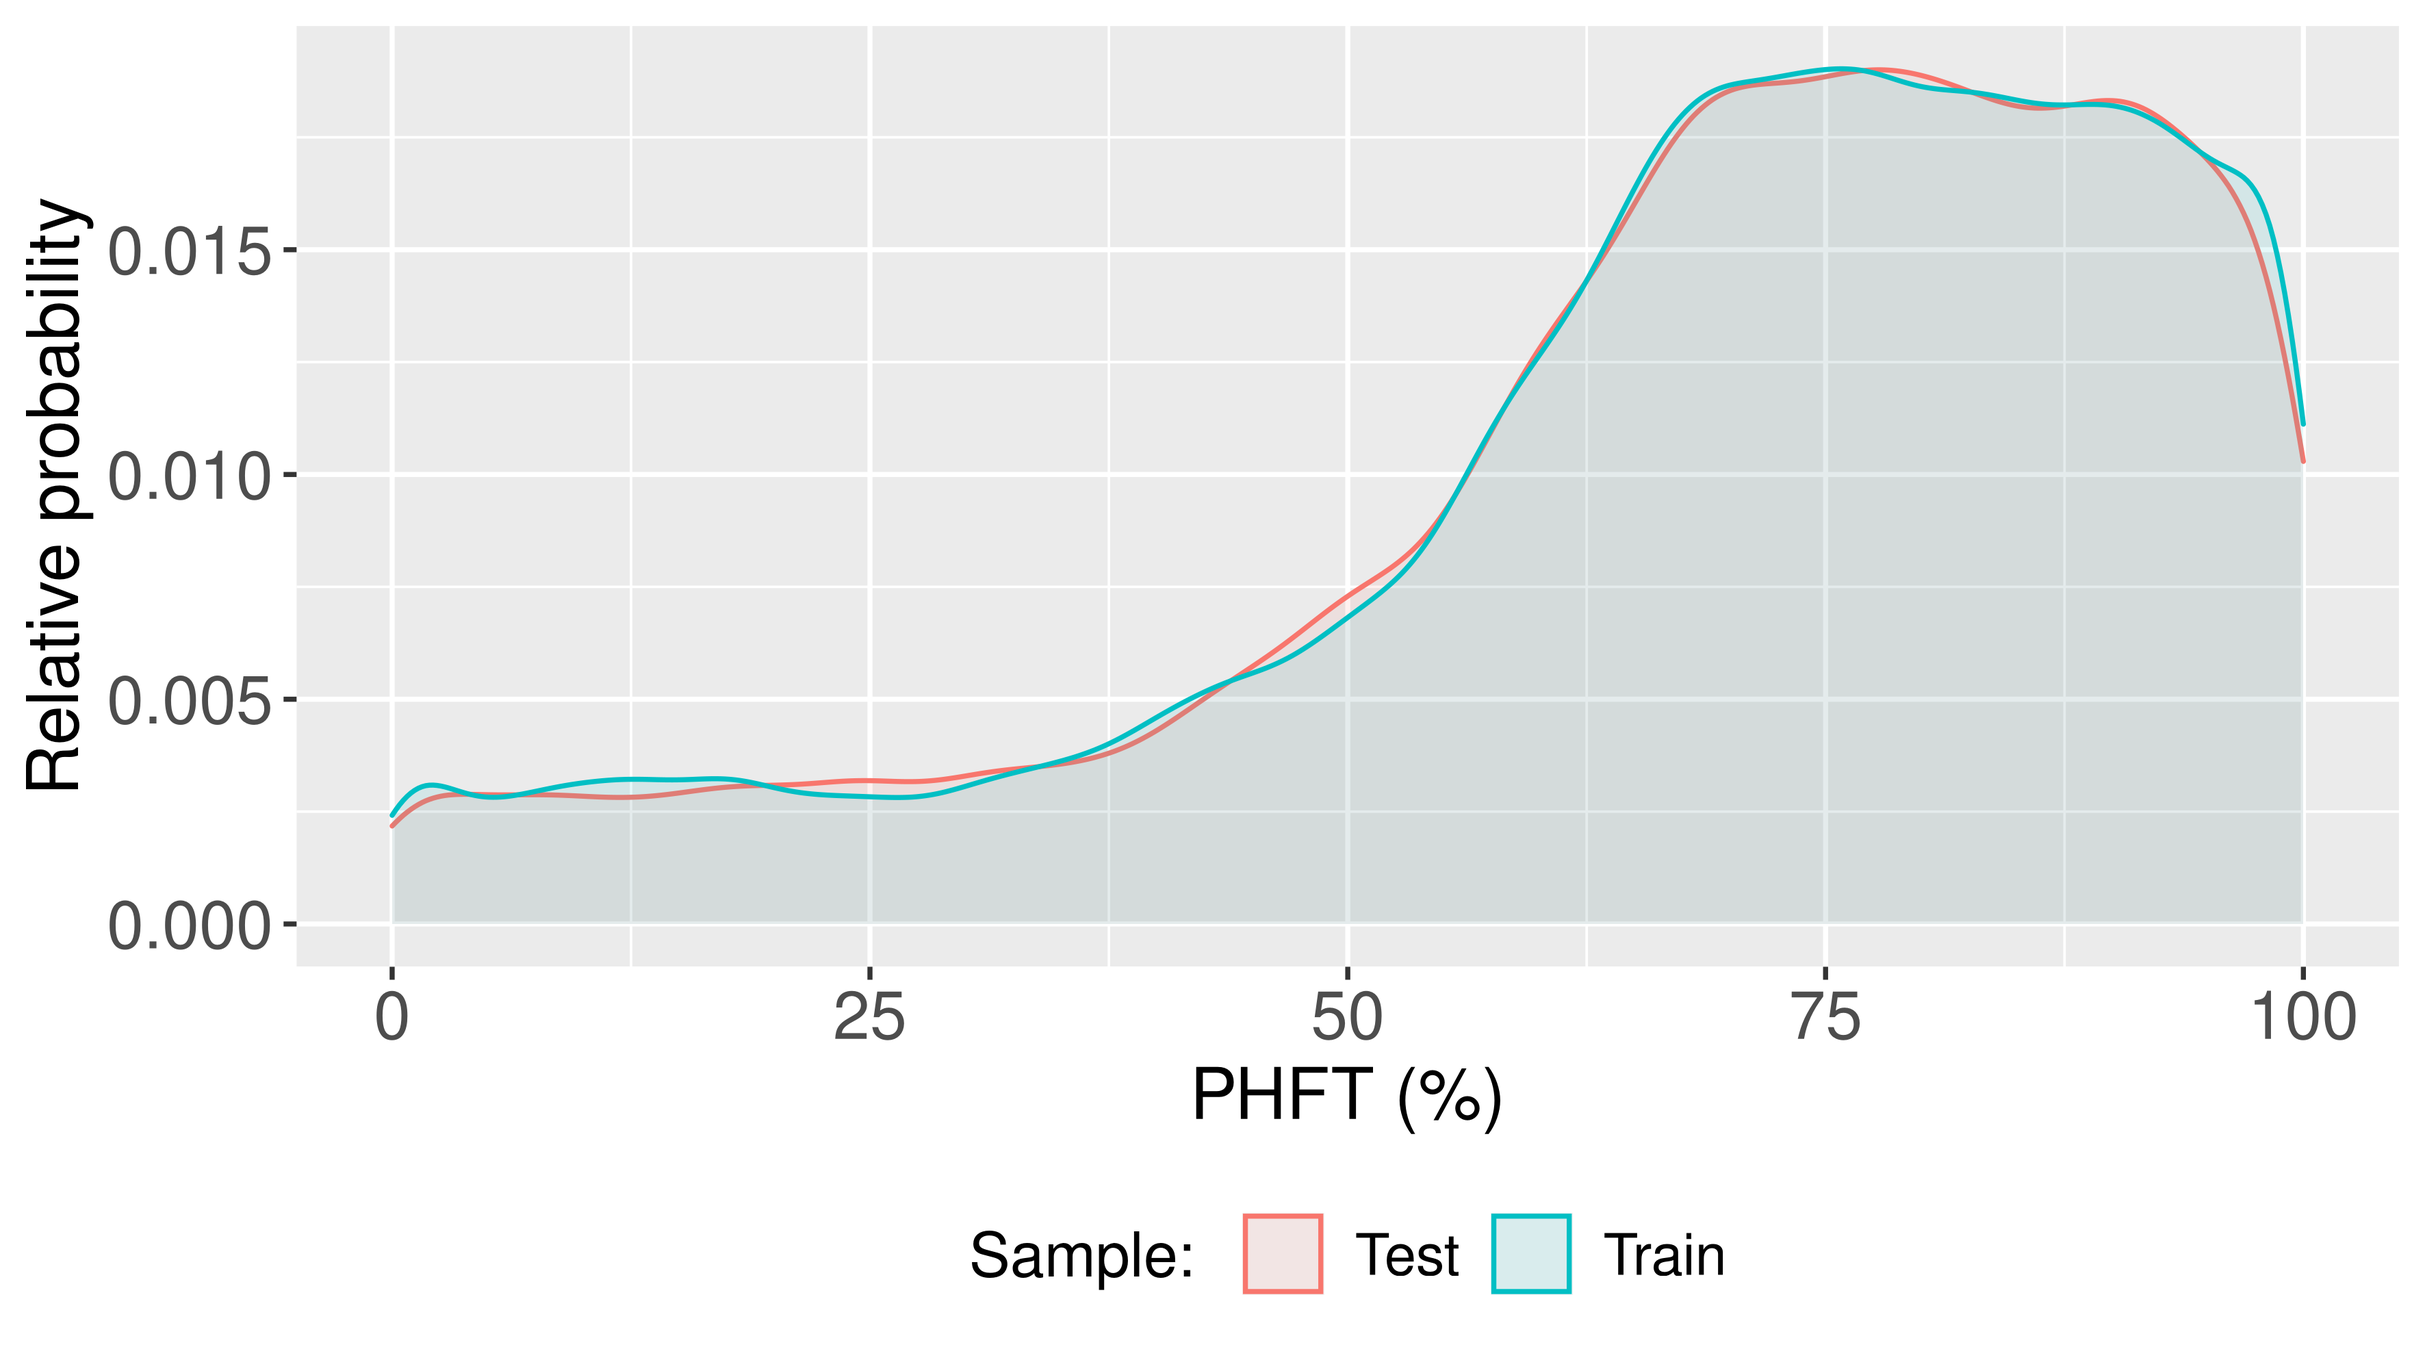
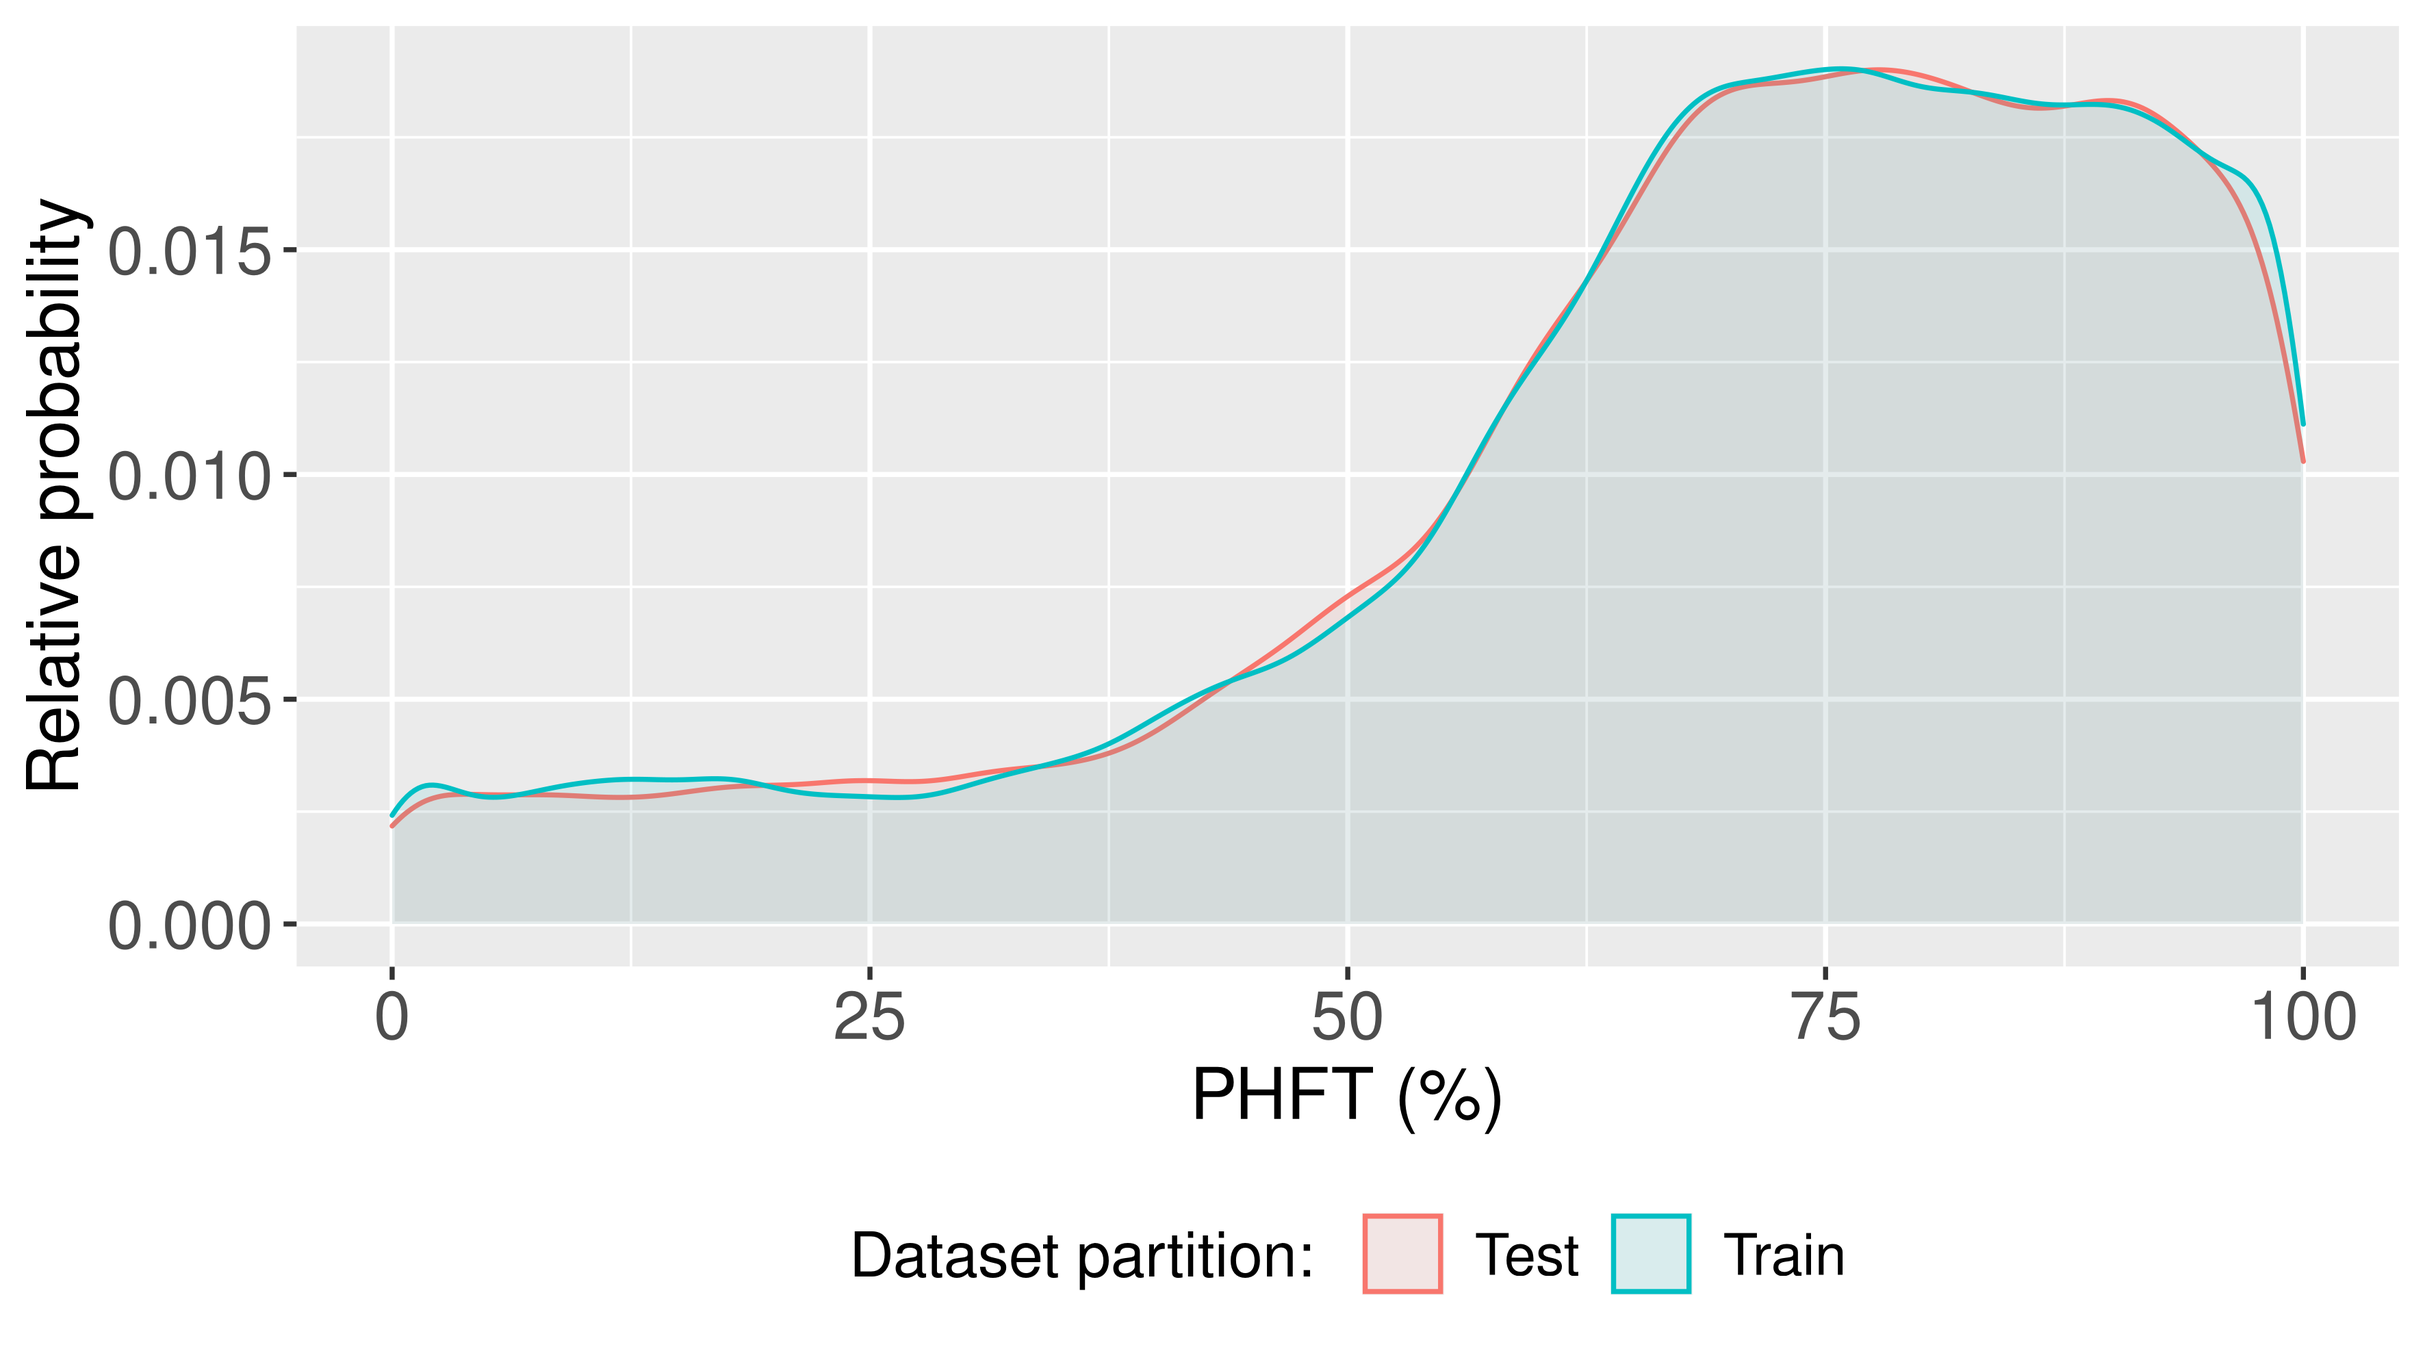
translate graphs to english and update README.md

Changed region(s): [[0.3415, 0.8989, 0.7762, 0.9609]]

diff --git a/README.md b/README.md
@@ -157,13 +157,13 @@ Ps.: for extra information about the dataset, I suggest reading either the short
 sample = TidySample(saltelli_path, seeds_dir, models_dir, epws_dir, inmet)
 ```
 
-The histograms bellow describe the distribution of the variables in the tidy dataset.
-
-![hist_inputs](https://github.com/rodolfoksveiga/master_ufsc/blob/master/plot_table/hist_inputs.png)
-
 It's important to note that `TidySample` removes repeated rows from the dataset. These repeated rows appears because the function rounds the values of the factor (integer) variables. Therefore, the tidy dataset contains 109,276 rows.
 
 The factor variables are: `typology`, `floor`, `wall_shell`, `roof_shell`, `blind`, `facade`, and `mirror`.
+
+The histograms bellow describe the distribution of the variables in the tidy dataset.
+
+![hist_inputs](https://github.com/rodolfoksveiga/master_ufsc/blob/master/plot_table/hist_inputs.png)
 
 **4.** Apply the function `BuildModel`, from *[build_model.r](https://github.com/rodolfoksveiga/master_ufsc/blob/master/code/build_model.r)*, for each row of the tidy dataset. This function takes as arguments each of the variables in the dataset, except for the variable `dbt`, and builds EnergyPlus simulation files according to these variables values. Thus, after the execution of this function, 109,276 simulation files are generated.
 
@@ -183,7 +183,7 @@ with(sample, mcmapply(BuildModel, seed_path, area, ratio, height, azimuth, shell
 
 **5.** Perform the function `MakeSlices`, from *[make_slices.r](https://github.com/rodolfoksveiga/master_ufsc/blob/master/code/make_slices.r)*, which defines a list of dataset slices. The number of slices is defined according to the value of the global variable `cores_left` and also by the number of rows in the tidy dataset.
 
-After that, each dataset slice is processed by the function `ProcessSlices`. Firstly, this function runs the EnergyPlus simulations in parallel, thorough the function `ProcessEPSim`, from *[run_ep_sim.r](https://github.com/rodolfoksveiga/master_ufsc/blob/master/code/run_ep_sim.r)*. Then, it executes the function `ApplyCalcTarget`, from *[calc_target.r](https://github.com/rodolfoksveiga/master_ufsc/blob/master/code/calc_target.r)*, which calculates the targets and attach them to the correspondent dataset slice. Finally, it writes the dataset slice with the targets as a *csv* file, removes useless simulation outputs, and compiles the simulation errors in a single a file.
+After that, each dataset slice is processed by the function `ProcessSlices`. Firstly, this function runs the EnergyPlus simulations in parallel, thorough the function `ProcessEPSim`, from *[run_ep_sim.r](https://github.com/rodolfoksveiga/master_ufsc/blob/master/code/run_ep_sim.r)*. Then, it executes the function `ApplyCalcTarget`, from *[calc_target.r](https://github.com/rodolfoksveiga/master_ufsc/blob/master/code/calc_target.r)*, which calculates the targets and attach them to the correspondent dataset slice is a new column called `targ`. Finally, it writes the dataset slice with the targets as a *csv* file, removes useless simulation outputs, and compiles the simulation errors in a single a file.
 
 ```R
 ## functions
@@ -214,7 +214,7 @@ slices = MakeSlices(sample, n, size, cores)
 mapply(ProcessSlices, slices, n, size)
 ```
 
-The target represents the thermal performance of the apartment, which is described by an index named PHFT. PHFT stands for the percentage of occupied hours within an operative temperature range. The index was defined in the NBR 15.575 and its fundaments were published in [this](https://www.researchgate.net/publication/345742006_Proposta_de_metodo_de_avaliacao_do_desempenho_termico_de_residencias_NBR_15575) research paper, available in Portuguese.
+The target (`targ`) represents the thermal performance of the apartment, which is described by an index named PHFT. PHFT stands for the percentage of occupied hours within an operative temperature range. The index was defined in the NBR 15.575 and its fundaments were published in [this](https://www.researchgate.net/publication/345742006_Proposta_de_metodo_de_avaliacao_do_desempenho_termico_de_residencias_NBR_15575) research paper, available in Portuguese.
 
 The following formula calculates the PHFT:
 
@@ -242,7 +242,7 @@ WriteSample('sample.csv', sample_path, result_dir)
 lapply(c('summary', 'description'), HandleSlices, result_dir)
 ```
 
-The final dataset contain 109,276 rows and 21 columns, corresponding to the variables: `seed`, `storey`, `area`, `ratio`, `height`, `azimuth`, `shell_wall`, `abs_wall`, `shell_roof`, `abs_roof`, `wwr_liv`, `wwr_dorm`, `u_window`, `shgc`, `open_factor`, `blind`, `balcony`, `facade`, `mirror`, `dbt`, `targ` (PHFT).
+The final dataset contain 109,276 rows and 21 columns, corresponding to the variables: `seed`, `storey`, `area`, `ratio`, `height`, `azimuth`, `shell_wall`, `abs_wall`, `shell_roof`, `abs_roof`, `wwr_liv`, `wwr_dorm`, `u_window`, `shgc`, `open_factor`, `blind`, `balcony`, `facade`, `mirror`, `dbt`, `targ`.
 
 ### Sobol's Sensitivity Analysis
 
@@ -258,7 +258,7 @@ JoinSamples(saltelli_path, sample_path)
 py_run_file('./code/saltelli_sample.py')
 ```
 
-The outputs of the sensitivity analysis are represent in the bar plot bellow. The first-order index corresponds to the importance of a determined input variable over the output variable, without the influence of the remaining input variables. The second-order index corresponds to the importance of a determined input variable over the output variable, while the effect of the remaining variables (higher-order effects) are also considered.
+The outputs of the sensitivity analysis are represented in the bar plot bellow. The first-order index corresponds to the importance of an input variable for the output variable, without considering the influence of the remaining input variables. The total-order index corresponds to the importance of an input variable for the output variable, while the effect of the remaining variables (higher-order effects) are also considered.
 
 ![sobol_barplot_en](https://github.com/rodolfoksveiga/master_ufsc/blob/master/plot_table/sobol_barplot_en.png)
 
@@ -308,14 +308,14 @@ tune_grid = list(
                      .subsample = 1)
 )
 # directory to write plots and tables
-pt_dir = '~/Documents/master/'
+pt_dir = 'plot_table/'
 # directory to write machine learning models
-models_dir = '~/Documents/master/'
+models_dir = 'result/'
 # number of cores not to use
 cores_left = 0
 ```
 
-**2.** Load the tidy dataset (`raw_data`) and transform qualitative variables in factors, so that it's possible to transform these variables into dummy variables.
+**2.** Load the tidy dataset (`raw_data`) and transform qualitative variables into factors, so that it's possible to transform these variables into dummy variables.
 
 ```R
 ## main code
@@ -354,14 +354,14 @@ SelectFeats = function(data, sa_path, threshold) {
 raw_data = SelectFeats(raw_data, sa_path, threshold)
 ```
 
-In this step, 3 values of total-order index were used as threshold to select the input variables: 0 (all {20} variables are considered), 0.005 (13 variables are considered), and 0.01 (10 variables are considered).
+In this step, 3 values of total-order index were used as threshold to select the input variables: 0 (all, or 20, variables are considered), 0.01 (13 variables are considered), and 0.02 (10 variables are considered).
 
 According to the sensitivity analysis results showed before, the input variables in the datasets are defined bellow:
-* 20 variables: `dbt`, `blind`, `shgc`, `storey`, `abs_roof`, `abs_wall`, `wwr_dorm`, `shell_wall`, `shell_roof`, `open_factor`, `azimuth`, `seed`, `facade`, `mirror`, `height`, `ratio`, `area`, `wwr_liv`, `balcony`, `u_window`.
-* 13 variables: `dbt`, `blind`, `shgc`, `storey`, `abs_roof`, `abs_wall`, `wwr_dorm`, `shell_wall`, `shell_roof`, `open_factor`, `azimuth`, `seed`, `facade`.
-* 10 variables: `dbt`, `blind`, `shgc`, `storey`, `abs_roof`, `abs_wall`, `wwr_dorm`, `shell_wall`, `shell_roof`, `open_factor`.
+* **20 variables**: `dbt`, `blind`, `shgc`, `storey`, `abs_roof`, `abs_wall`, `wwr_dorm`, `shell_wall`, `shell_roof`, `open_factor`, `azimuth`, `seed`, `facade`, `mirror`, `height`, `ratio`, `area`, `wwr_liv`, `balcony`, `u_window`.
+* **13 variables**: `dbt`, `blind`, `shgc`, `storey`, `abs_roof`, `abs_wall`, `wwr_dorm`, `shell_wall`, `shell_roof`, `open_factor`, `azimuth`, `seed`, `facade`.
+* **10 variables**: `dbt`, `blind`, `shgc`, `storey`, `abs_roof`, `abs_wall`, `wwr_dorm`, `shell_wall`, `shell_roof`, `open_factor`.
 
-**4.** Transform qualitative variables into dummy variables, through the function `CreateDummies`.
+**4.** Transform qualitative variables (factors) into dummy variables, through the function `CreateDummies`.
 
 ```R
 ## functions
@@ -381,7 +381,7 @@ CreateDummies = function(data) {
 dummy_data = CreateDummies(raw_data)
 ```
 
-**5.** Execute the function `SplitData` to split the dataset into a list containing two datasets: training (80%) and testing (20%). In this step, both datasets (raw and dummy) were splitted, because the `raw_dataset` (tidy dataset) will be used later to perform the predictions and calculate the accuracy metrics.
+**5.** Execute the function `SplitData` to split the dataset into a list containing two datasets: training (80%) and testing (20%). In this step, both datasets (tidy and dummy) were splitted, because the training partition of the `raw_dataset` (tidy dataset) will be used later to perform the predictions and calculate the accuracy metrics.
 
 ```R
 ## functions
@@ -406,13 +406,13 @@ raw_data = lapply(list('train' = TRUE, 'test' = FALSE), SplitData, raw_data, 0.0
 dummy_data = lapply(list('train' = TRUE, 'test' = FALSE), SplitData, dummy_data, 0.01)
 ```
 
-The distribution of the target within the dataset is represented in the plot bellow. This graph describes the relative probability to find the target values in the dataset. Since the data partition is based on the target (PHFT), naturally the distribution of the training and testing datasets is pretty similar.
+The distribution of the target within the dataset is represented in the plot bellow. This graph describes the relative probability to find the target values in the dataset. The data partition is based on the target (PHFT), thus, the distribution of the training and testing datasets is pretty similar.
 
 ![targ_dist_en](https://github.com/rodolfoksveiga/master_ufsc/blob/master/plot_table/targ_dist_en.png)
 
-**6.** Apply the function `FitModel` over each model and its respective hyperparameters grid, defined in the global variable `tune_grid` (training dataset). First, the function defines some training properties, such as the sampling technique (cross-validation) and the number of folders adopted in the cross-validation. After that, the model is trained considering the pre-defined grid.
+**6.** Apply the function `FitModel` over each machine learning technique and its respective hyperparameters grid, defined in the global variable `tune_grid`. First, the function defines some training properties, such as the sampling technique (cross-validation) and the number of folders adopted in the cross-validation. Then, the model is trained considering the pre-defined grid.
 
-During the execution of the function `train`, from Caret, a Box-Cox transformation is performed in order to pre-process the dataset. Still during the training, every model is evaluated according to the metric RMSE.
+During the execution of the function `train`, from Caret, a Box-Cox transformation is performed, in order to pre-process the dataset. Still during the training, every model is evaluated according to the metric RMSE.
 
 All the processing is done in parallel and reproducibility is assured.
 
@@ -447,9 +447,11 @@ models = mapply(FitModel, models_list, tune_grid, SIMPLIFY = FALSE,
                 MoreArgs = list('cv', nfolds, dummy_data$train, cores_left))
 ```
 
-![](https://github.com/rodolfoksveiga/master_ufsc/blob/master/plot_table/.png)
+The boxplots bellow shows the distributions of the metrics MAE and RMSE for achieved by each machine learning technique during the training. On each boxplot, the x-axis represents the statical index value, and the y-axis is the number of variables selected according to the sensitivity analysis index. The statistical index has the same unity as the PHFT (%). The MAE graphs were plotted on the left-hand side and the RMSE graphs on the right-hand side. The machine learning techniques were distributed vertically.
 
-**7.** Evaluate the best model selected from each technique using the metrics MAE, RMSE and R² (testing dataset), write the summary as a *csv* file with training and testing performances, and write the models as a *rds* files.
+![perf_train_en](https://github.com/rodolfoksveiga/master_ufsc/blob/master/plot_table/perf_train_en.png)
+
+**7.** Evaluate the most accurate models selected from each technique using the metrics MAE and RMSE (testing dataset), write the summary as a *csv* file with training and testing performances, and write the models as a *rds* files.
 
 ```R
 ## main code
@@ -465,7 +467,15 @@ GenAccuracyTable(models, predictions, dummy_data$test$targ, suffix, pt_dir)
 saveRDS(models, file = paste0(models_dir, 'models_', suffix, '.rds'))
 ```
 
-![](https://github.com/rodolfoksveiga/master_ufsc/blob/master/plot_table/.png)
+The accuracy of the testing dataset for the most accurate models is represented in the barplots bellow. On x-axis of each plot is the machine learning technique and on y-axis is the statistical index value. The number of variables selected were represented by bars with different colours.
+
+![perf_test_en](https://github.com/rodolfoksveiga/master_ufsc/blob/master/plot_table/perf_test_en.png)
+
+From the graph above we can see that the most accurate model was the XGBoost (XGBT) considering 20 variables, which achieved MAE of 1.7% and RMSE of 2.5%. However, the second most accurate model was the XGBT considering 13 variables, which achieved MAE and RMSE of 1.8% and 2.7%, respectively. Removing 7 of the less important variables has a low impact on the models accuracy, therefore, the XGBT with 13 variables was considered the optimized model.
+
+The plot bellow shows the performance of the optimized machine learning model. On x-axis is the simulation PHFT (%) and on y-axis is the prediction PHFT (%). The diagonal red line represents the function `f(x) = x`. The closer a point is to the red line, the more accurate is its prediction.
+
+![perf_final_en](https://github.com/rodolfoksveiga/master_ufsc/blob/master/plot_table/perf_final_en.png)
 
 ### Application
 
